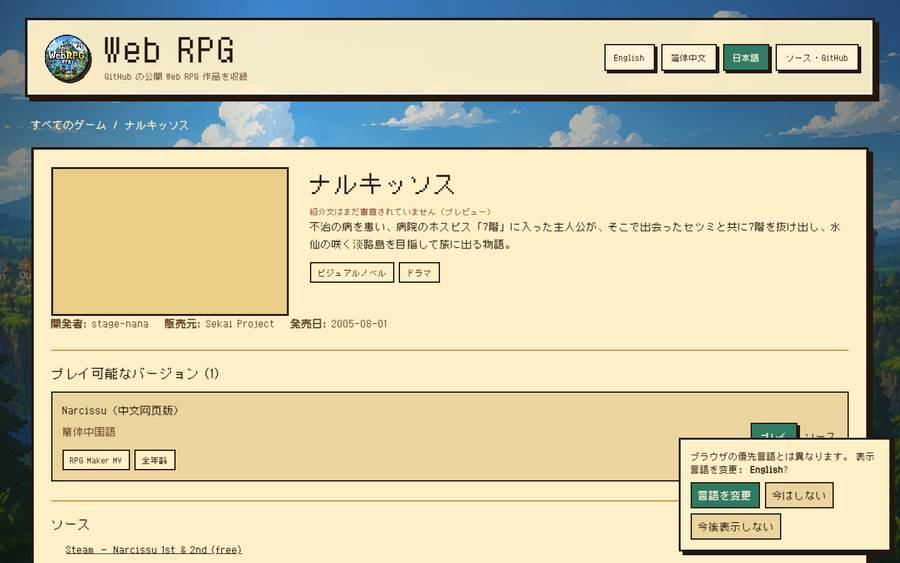
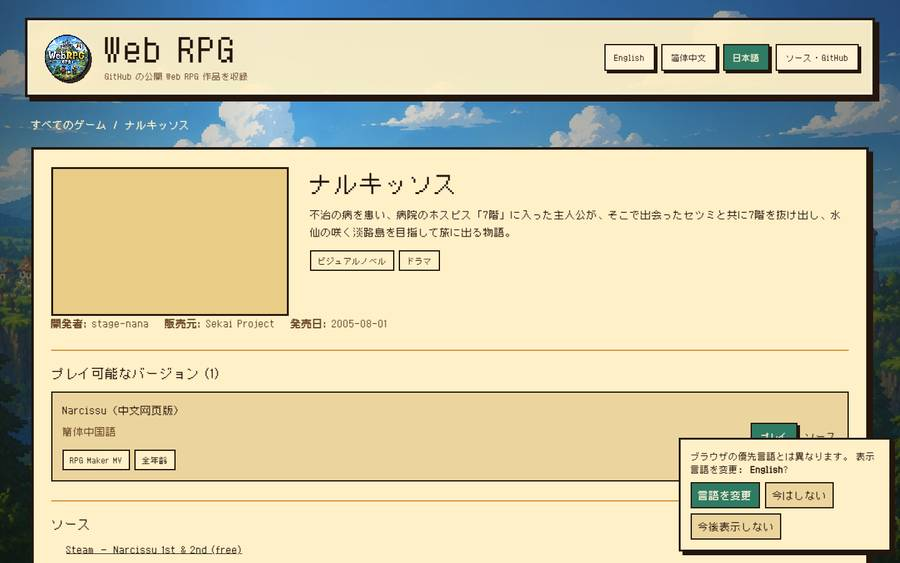
docs(audit): document round-one findings and accepted regression evidence

Changed region(s): [[0.3422, 0.3623, 0.9333, 0.5133]]

diff --git a/docs/acceptance/independent-review-remediation-2026-11-20.md b/docs/acceptance/independent-review-remediation-2026-11-20.md
@@ -1,0 +1,44 @@
+# WebRPG Astro SSG — Independent Review Round 1 Remediation (2026-11-20)
+
+Review source: /Projects/WebRPG/Plans/SSG-SEO-2026-11-20/Independent-Review-2026-11-20.md (revision 3).
+Feature branch: feature/astro-ssg-seo.
+Original reviewed commit: 5413a66e6c20065b1e9d06f7506c64b866371427.
+Pinned data commit: bef40743be736b339f2f9bf3f0c9772f90e94de8.
+
+## Updated product policy
+
+This revision supersedes the original extra editorial-review requirement. Historical editorial draft, a missing/short intro, description quality flags, or NSFW true/unknown are **not** indexability blockers. Explicit Game seo.indexPolicy=noindex and verified technical unavailability/provenance checks still apply. Both NSFW and unknown-classification covers may appear in the directory. Editorial placeholders are not used as genuine descriptions; derived local-language fallback text uses only Game title, taxonomy, language and instance count.
+
+## Findings, changes and regression evidence
+
+| Finding | Resolution | Evidence |
+| --- | --- | --- |
+| F1 P0 | Removed hard-coded Narcissu noindex and even fixed Narcissu existence from permanent dist auditor; expected robots and sitemap now derived from every normalized Game locale | verify-dist.mjs; snapshot-driven all-pages check |
+| F2 P1 | Explicit boolean mismatch between Game instance NSFW and list.meta.nsfw throws a build-breaking error; absent stays unknown/metadata fallback | catalog-core.mjs; true/false conflict and unknown fixtures |
+| F3 lifted | Adult and unknown can be rendered on homepage, not globally excluded. Explicit boolean classification prevents unknown from being mislabeled Adult. Optional search-only safety filter remains | GameCard.tsx, GameDetails.astro, browser class regression |
+| F4 P1 | Parses relations[].gameId and keeps relation.type; validates all targets against the catalog, rejects invalid/duplicate/self relations; directed relationship links are localized | 17 real links from 9 games, fixture and dist HTML assertions |
+| F5 P0 | Draft and intro contents no longer gate indexability. Noindex only for explicit opt-out or unavailable/provenance-unverified technical instance; indexable details use factual fallback description when summary absent/placeholder | fixture coverage, 1236 indexable Game locale pages, sitemap exact matching |
+| F6 P2 | Developer/publisher View credits preserve {name,url|null}; HTTPS verified links render in static HTML and are used without invented Person/Organization identity in schema.org | 299 real games have developer URLs; source URL fixtures and dist checks |
+| F7 P2 | Open Graph locale is en_US/zh_CN/ja_JP; HTML lang and hreflang remain en/zh-Hans/ja | generated HTML validator for all pages |
+| F8 P2 | Search has 60-record incremental Show more, makes remaining matches accessible, and scopes keyboard Enter/arrow behavior away from native filters; composition/IME Enter does not navigate | browser smoke regression |
+| F9 P2 | Setup Chrome action receives id, passes actual steps.setup-chrome.outputs.chrome-path to BROWSER_PATH | both workflow YAML files; official setup-chrome contract. Real GitHub Linux runner still requires independent PR validation |
+| F10 P2 | Catalog hash covers complete deterministic normalized game view, including credits, relations, links and dates; noisy checkedAt remains outside projection | build-catalog.mjs and digest unit fixture |
+
+## Local verification
+
+- Snapshot: 414 Game, 451 internal instances, 32 multi-instance Games, 2 unknown NSFW, 17 directed relations.
+- Indexability after review-policy change: 1236/1242 game locale HTML pages. The remaining six are three locales each for basicrpg (stale reviewed-source SHA) and bibliogame (reachable=false). They remain valid noindex navigable pages.
+- Produced 1469 static HTML pages. 64 noindex. Sitemap contains 1404 canonical URLs, including 1236 Game locales. One duplicate root page canonicalizes to /en/.
+- Schema unit and data integrity fixtures: 14 passed, including failure cases, external URL and conditional publishing.
+- Strict Astro TypeScript check, ESLint, Astro SSG build and all-output SEO verification passed with zero assertion violations.
+- Real browser smoke: 13 of 13 passed, including full search result expansion, select/IME Enter safety, draft/short synopsis and true/unknown NSFW class display, 320px/390px responsive behavior, static navigation without JS, and language toast.
+- Browser screenshots in docs/acceptance/screenshots remain available for visual review.
+
+## Live-release limitations / non-claims
+
+- No merge, remote push, GitHub Actions trigger, Pages publication, or index-repo modification was performed.
+- setup-chrome output is documented officially but an actual GitHub-hosted Linux PR run cannot be claimed until a separately authorized push/PR.
+- Production webrpg.org/<forkName>/ game-engine startup/audio/images, preserved browser saves, Search Console x-default selection, and actual search-engine indexing require separate production checks.
+- Read-only old-site URL HTTP 200 tests do not establish future deployed compatibility.
+
+This note is an audit remediation statement, not independent approval to merge or deploy.

diff --git a/docs/acceptance/phase-2.md b/docs/acceptance/phase-2.md
@@ -3,21 +3,20 @@
 ## Implemented
 - Root full static English homepage, matching /en/ main content; root canonical -> https://webrpg.org/en/ and never redirect.
 - 3 full homes, individual Game detail pages, Game-based stable-title pagination (36/page), genres/themes and playable-language category routes, with no duplicate page/1.
-- Real links rendered into initial HTML, direct Game-to-Instance navigation, preserved original run URL even when entryPoint differs from /index.html. Detail has breadcrumbs, multi-instance version rows, unknown NSFW and content approval gating.
-- SEO Head is entirely server static: unique title, meta description, lang, canonical, hreflang, OG, Twitter card, JSON-LD CollectionPage/ItemList, BreadcrumbList and (only if approved) VideoGame.
-- Game-level and per-locale content review plus source SHA provenance and adult/unrated gating. All current draft game descriptions are noindex,follow, are absent from sitemap and never receive a spurious indexed hreflang to drafts.
+- Real links rendered into initial HTML, direct Game-to-Instance navigation, preserved original run URL even when entryPoint differs from /index.html. Details include breadcrumbs, multi-instance versions, directed typed relations and NSFW classification.
+- SEO Head is entirely server static: unique title, meta description, lang, canonical, hreflang, OGP-compliant language territory codes, Twitter card, JSON-LD CollectionPage/ItemList, BreadcrumbList and valid-URL-backed VideoGame.
+- Direct publication policy supersedes the former editorial gating: draft, missing/short introductions and NSFW/unknown do not block indexing. Explicit noindex and technically unusable / provenance-invalid instances still block. Missing or placeholder descriptions receive localized factual metadata and prose based only on real game attributes.
 - Category pages with only programmatic titles/counts or thin entries stay noindex; curated explanations for key tags, instance-language taxonomy explanations for language pages. Canonical and sitemap derive from the same predicates.
 - Build verification examines ALL HTML files, 66K+ anchors, canonical/hreflang mutuality, metadata/JSON-LD, sitemap vs noindex, static home and game content, path uniqueness and protected runtime routes.
 
 ## Verified on local build
 
 - Static HTML documents: 1469 (489 each locale, /, /404.html).
-- Noindex pages: 1300 (all 1242 draft Game locales and 58 other non-indexable/404 pages).
-- Indexable HTML: 169 (including duplicate root, excluded from sitemap).
-- Sitemap canonical URLs: 168.
+- Latest audited fixed-source build: 1469 HTML, 64 noindex, 1405 indexable HTML including the canonicalized root, 1404 canonical Sitemap URLs, and 1469 JSON-LD scripts.
+- Exactly 1236 of 1242 Game locale pages are eligible for indexing; 6 remain technically unavailable/provenance-invalid. Actual generated counts always remain authoritative in dist/build-manifest.json.
 - JSON-LD scripts checked: 1469; static anchor links checked: 66K+.
 - Source SHA: bef40743be736b339f2f9bf3f0c9772f90e94de8.
-- Snapshot has 0 indexed Game locales, reflecting existing editorial review status.
+- Snapshot preserves all 414 historical draft statuses without requiring source-data rewrites; indexability no longer depends on editorial review.
 - Checks: npx astro build; node scripts/verify-dist.mjs; npx astro check; npm run ci.
 
 These are local SSG audits only; crawler behavior and production reachability have not been tested.

diff --git a/docs/acceptance/phase-3.md b/docs/acceptance/phase-3.md
@@ -6,7 +6,7 @@
 - Collapsed long genre/language secondary navigation behind native details controls (usable without JavaScript) so a narrow viewport does not show endless category chips before game cards.
 - React islands limited to search/dialog and language preference banner; all pages, cards and detail bodies are pre-rendered. Search index is fetched on user interaction, not before; combined filters search all 414 works, with adult/unrated opt-in.
 - Browser language banner is bottom-right, never redirects, remembers selected locale, session dismiss and permanent disable; same Game Slug target.
-- Desktop/browser image backgrounds have a placeholder fallback; unclassified/adult card cover photos are hidden by default.
+- Desktop/browser image backgrounds have a placeholder fallback. Adult and unknown-classification cover images may appear on the homepage, with accurate category badges; search-only optional filters are not enforced as a site-wide restriction.
 
 ## Executed local Edge browser smoke
 Command: npm run test:browser. Chromium running via installed Microsoft Edge, headless, Astro preview server.
@@ -14,12 +14,12 @@ Command: npm run test:browser. Chromium running via installed Microsoft Edge, he
 - 36 game cards, static page 2, /ja/game/narcissu/ and original runtime href.
 - zh-Hans and ja homes, horror and actual pt playable-language categories, unsupported route -> real 404.
 - Zpix body font and warm gradient card surfaces confirmed via computed styles.
-- Search loads full catalog including a work outside the first page, combined filters and adult/rating state changes.
+- Search loads full catalog including a work outside the first page, combined filters, adult/unrated opt-in, incremental 60-result paging and scoped keyboard navigation (native select and IME Enter are not hijacked).
 - Mobile viewports 320px and 390px: no overflow, visible language navigation, headings.
 - JavaScript-disabled catalog, pagination, language switches, Game/Instance deep-link anchors.
 - Browser recommendation, dismiss for this session, manual preference and permanent opt-out.
 - No application JavaScript exceptions in inspected pages.
 
-At last recorded run, all 11 browser assertions passed. Screenshots are captured in .cache/ui and compressed review images are retained in docs/acceptance/screenshots/ (legacy production and updated local desktop/mobile, Japanese detail, 320px detail and language prompt).
+The independent-review revision passed all 13 Edge/Playwright browser assertions, adding full search result expansion, native select/IME Enter isolation, draft/short synopsis publishing and accurate NSFW true/unknown labels. See the independent-review remediation report. Screenshots are captured in .cache/ui and compressed review images are retained in docs/acceptance/screenshots/ (legacy production and updated local desktop/mobile, Japanese detail, 320px detail and language prompt).
 
 Actual project-game JavaScript startup, asset fetch, web saves and indexing cannot be certified without separate authorized production smoke.

diff --git a/docs/acceptance/phase-4.md b/docs/acceptance/phase-4.md
@@ -1,14 +1,14 @@
 # Phase 4 — Quality gates, release workflow, rollback and outstanding checks
 
 ## CI / deployment plan (configured, NOT triggered)
-- CI workflow on pull requests and non-main push: Node 24 npm ci, schema build + ESLint + Astro check + unit fixtures + SSG + dist SEO validator, then real browser smoke. Produces build-manifest audit artifact.
+- CI workflow on pull requests and non-main push: Node 24 npm ci, schema build + ESLint + Astro check + unit fixtures + SSG + dist SEO validator, then real browser smoke. The browser binary path uses setup-chrome output rather than assuming /usr/bin/chromium. Produces build-manifest audit artifact.
 - Existing GitHub Pages deployment kept: only main pushes, workflow_dispatch and repository_dispatch index-updated can publish. Node 24 npm ci, same build gates plus browser smoke must pass before upload-pages-artifact and deploy-pages.
 - Manual dispatch accepts optional pinned frontend_ref and index_ref for rollback. The deployment path remains dist/CNAME=webrpg.org; there is no Cloudflare Pages cutover.
 - Build manifest includes frontend Commit SHA, data Commit SHA, raw games/list SHA256, normalized catalog hash, schema versions, route hash, totals, sitemap, noindex counts and warnings.
 - Path protection checks existing forks against en/zh-Hans/ja/assets/data/game/page/tags/languages/_astro and other reserved segments case-insensitively. Dist never creates any child-game runtime directories.
 
 ## Required pre-publish checks (not claimed passed)
-1. Independent code review/PR audit of schema adapter and SEO policies, CI YAML and browser test assumptions.
+1. Second independent code review/PR audit of the revised direct-publication index policy, NSFW consistency, relation graph, and browser keyboard behavior.
 2. Production project-page path smoke for representative games, including deeper entryPath URLs and images/audio/JavaScript startup.
 3. Browser storage survival for existing game saves on the real origin (localStorage, IndexedDB and game-specific save paths); no origin-wide clearing.
 4. Google Search Console / sitemap/canonical/hreflang follow-up, real mobile LCP/CLS/INP performance and crawler validation.

diff --git a/README.md b/README.md
@@ -8,7 +8,7 @@ WebRPG organizes **games (works)**, not GitHub repositories. Each work has a loc
 - React 19 hydrates only the search/combined filters and optional browser-language suggestion. Static game cards are rendered via existing Pixelact React UI on the server without client hydration.
 - Original Zpix font, site background, images, warm Pixelact UI and CSS are preserved.
 - Data source: WebRPG-org/index, one exact Git Commit SHA for both games.json and list.json, loaded **at build time**, validated and joined by explicit per-Game schemaVersion adapter. Browser never downloads the full upstream JSON. Search uses smaller separate content-hashed locale JSON indexes.
-- Independent Game and localized editorial statuses decide indexability. Draft pages stay accessible as `noindex,follow`, never go into sitemap. Missing NSFW remains `unknown`; no popularity or invented user ratings are consumed.
+- Indexability is determined by explicit `seo.indexPolicy=noindex` and technically valid, available game instance URLs. Historical draft editorial statuses, description length/absence and adult/unrated classification do not prevent publication. Factual metadata is used when an introduction is missing; missing NSFW remains `unknown`. No popularity or invented user ratings are consumed.
 
 ## Project directories
 

diff --git a/docs/acceptance/phase-1.md b/docs/acceptance/phase-1.md
@@ -15,7 +15,7 @@ Source of truth: eight complete Recalloom docs under /Projects/WebRPG/Plans/SSG-
 - Index SHA: bef40743be736b339f2f9bf3f0c9772f90e94de8.
 - Upstream registry version / per-Game adapter: 1 / 1.
 - Works: 414; internal instance references: 451; multi-instance works: 32; external production instances: 0; unknown NSFW: 2; source-changed review warnings: 1.
-- All 414 editorial statuses are draft; 0 production language Game descriptions are initially eligible for indexing.
+- All 414 historical editorial statuses are draft; under the updated direct-publication policy, 1236 technically usable Game locale pages qualify for indexing, while 6 remain noindex due to unavailable or changed-source instances. No migration of upstream status is required.
 - Search index count: 414 entries per locale; later entries are included in search, not only first 36 cards.
 - Run checks: npm run prepare:data; node --test tests/*.test.mjs; npm run typecheck.
 
